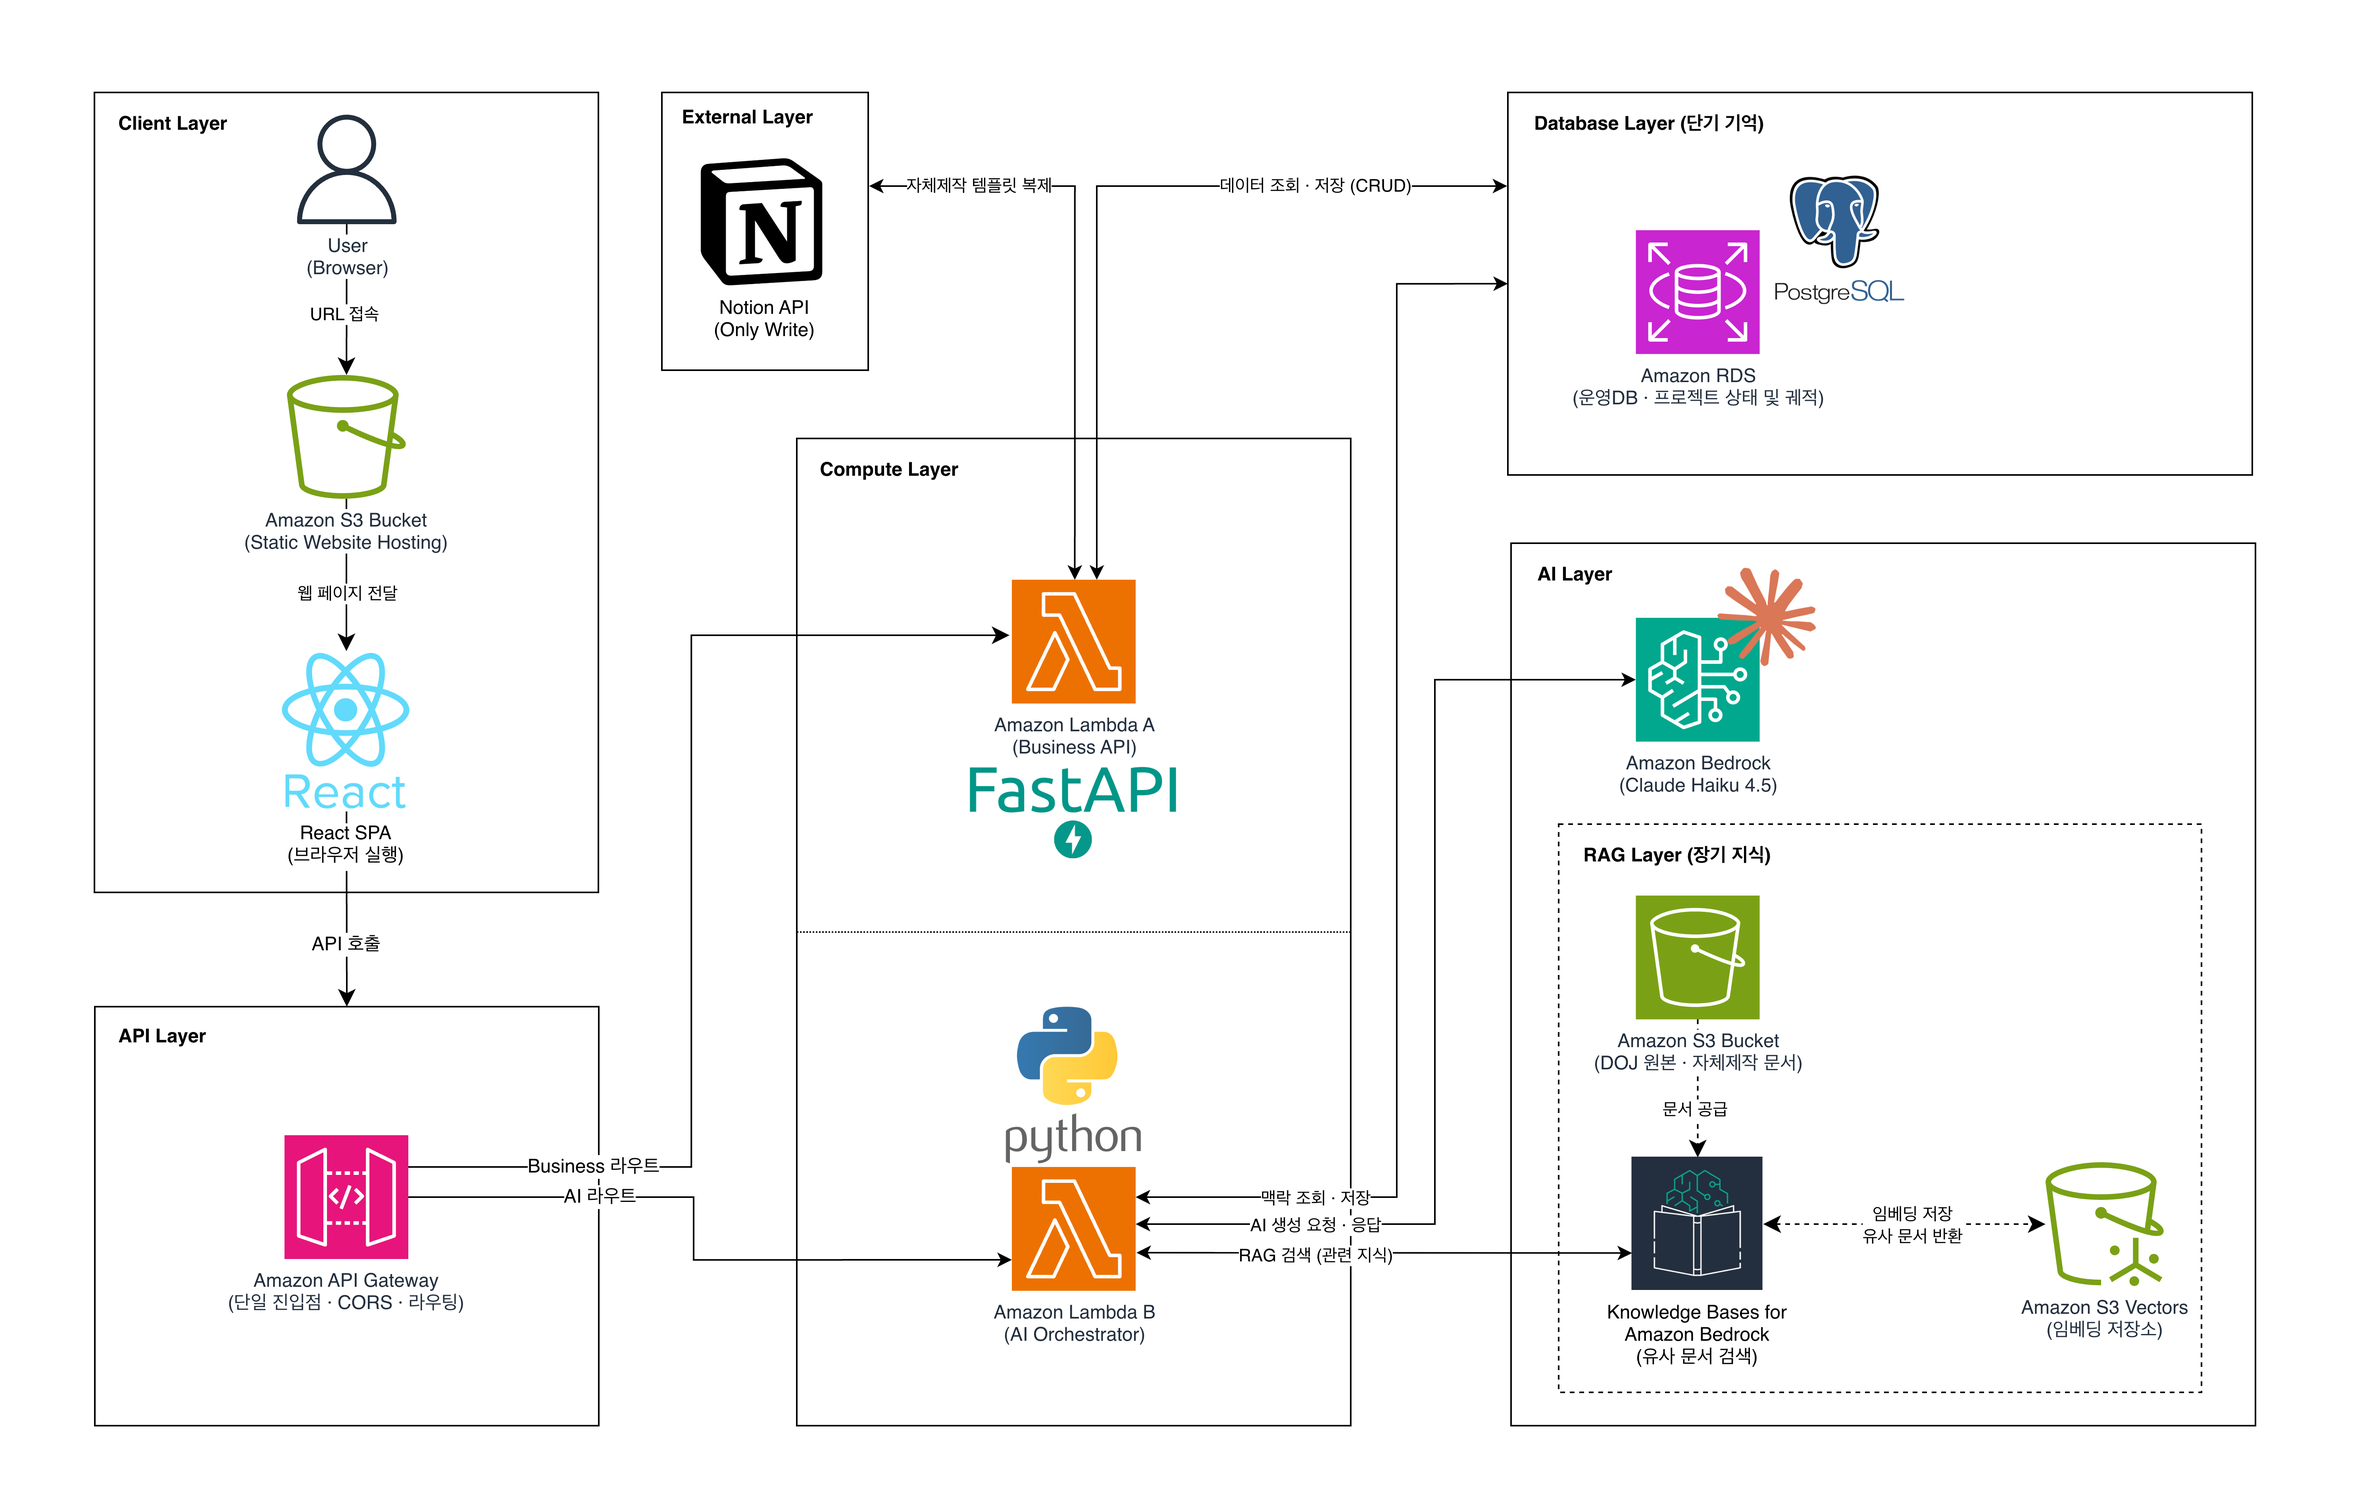
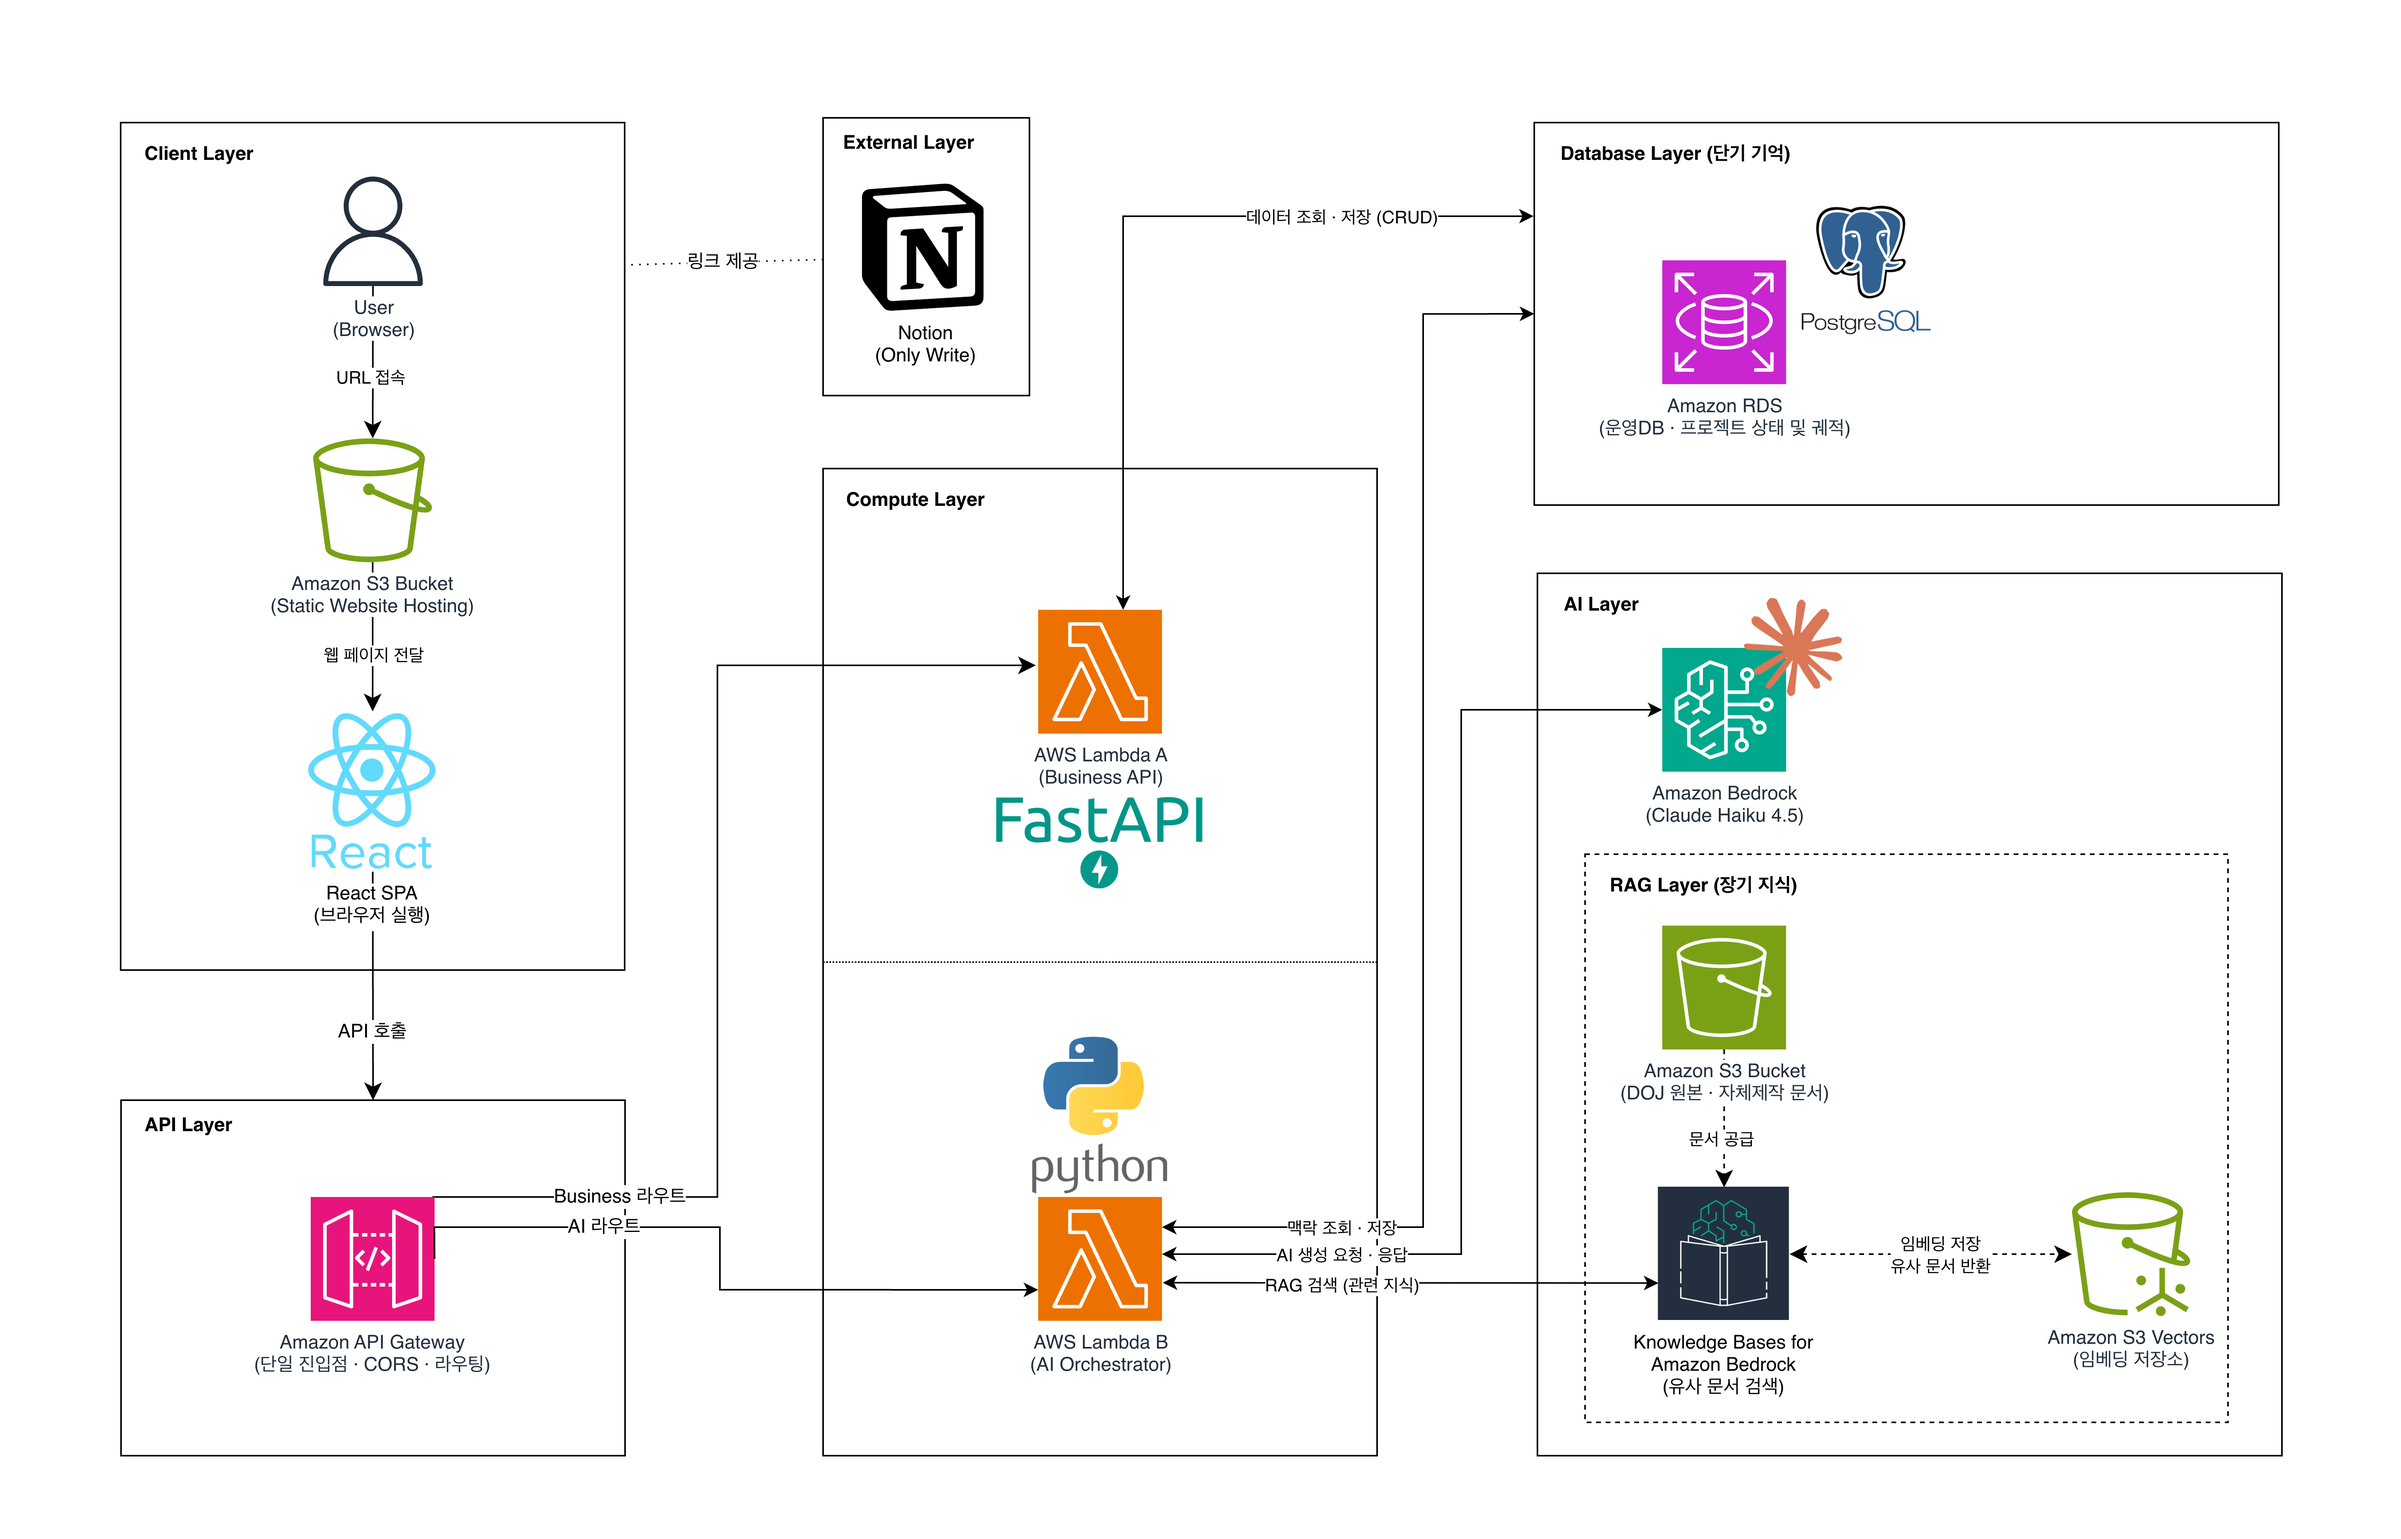
[#156][DOCS] 소개 페이지·README 전면 개편 (방법론 서사 강화 + LLM 일반화 + 논문 각주)
1. 주석 → 플레이스홀더 노출 (포스터·영상·배포 링크)
2. DOJ 10→6 재가공 서사 전면 강화 (5-2, 6-1, 6-3, 6-4)
   - '갖다 쓴 것이 아니라 재가공한 것' 메시지 전면 노출
   - DOJ가 가장 큰 틀, SWEBOK는 보완 참고, 팀 재검토·가공이 핵심
3. 6-1 SWEBOK 치중 완화 → DOJ-first 구조로 재작성
4. Claude → LLM 일반화 (6-2 전체)
5. 논문 각주 3개 추가 (LLM4SE, RLHF, 한국어 벤치마크)
6. 6섹션 제목·표현 순화 (구조 유지)
7. Notion API → Notion, External → External (링크 제공)
8. README 소개 페이지 뱃지 주석 해제
9. 양쪽 푸터 재작성 (DOJ 재구성 + SWEBOK 참고 구조 명시)
10. architecture.png 업데이트

diff --git a/README.md b/README.md
@@ -11,7 +11,7 @@
 </p>
 
 <p align="center">
-  <!-- <a href="https://kookmin-sw.github.io/2026-capstone-59/"><img src="https://img.shields.io/badge/소개_페이지-GitHub_Pages-0969da?logo=github" alt="Intro Page" /></a> -->
+  <a href="https://kookmin-sw.github.io/2026-capstone-59/"><img src="https://img.shields.io/badge/소개_페이지-GitHub_Pages-0969da?logo=github" alt="Intro Page" /></a>
   <a href="https://poco.example.com"><img src="https://img.shields.io/badge/서비스_바로가기-Poco-5C45E8" alt="Live Service" /></a>
   <a href="#-팀원"><img src="https://img.shields.io/badge/Capstone_2026-AWS_Track_59팀-FF9900?logo=amazon-aws" alt="AWS Track" /></a>
 </p>
@@ -22,10 +22,11 @@
 
 1. [한 줄 요약](#-한-줄-요약)
 2. [핵심 기능](#-핵심-기능)
-3. [기술 스택](#-기술-스택)
-4. [빠른 시작](#-빠른-시작)
-5. [레포지토리 구조](#-레포지토리-구조)
-6. [팀원](#-팀원)
+3. [시스템 아키텍처](#-시스템-아키텍처)
+4. [기술 스택](#-기술-스택)
+5. [빠른 시작](#-빠른-시작)
+6. [레포지토리 구조](#-레포지토리-구조)
+7. [팀원](#-팀원)
 
 &nbsp;
 
@@ -55,6 +56,14 @@ AI가 다음 한 걸음의 선택지를 제시하고 의사결정의 궤적을 *
 > 되돌아갈 수 있는 선택, 자산으로 남는 사고 과정.
 
 선택한 경로가 **캔버스 트리**로 남아, 이전 분기점으로 롤백하며 새로운 길을 AI가 다시 제안합니다.
+
+&nbsp;
+
+## 🐾 시스템 아키텍처
+
+<img src="./assets/architecture.png" alt="Poco System Architecture" />
+
+> RAG 파이프라인과 "단기 기억(RDS) · 장기 지식(S3 Vectors)" 분리 설계로, AI가 검증된 방법론을 실시간 참조합니다.
 
 &nbsp;
 
@@ -91,10 +100,6 @@ AI가 다음 한 걸음의 선택지를 제시하고 의사결정의 궤적을 *
 
 ![Docker](https://img.shields.io/badge/Docker-2496ED?style=flat-square&logo=docker&logoColor=white)
 ![GitHub Actions](https://img.shields.io/badge/GitHub_Actions-2088FF?style=flat-square&logo=githubactions&logoColor=white)
-
-**External**
-
-![Notion API](https://img.shields.io/badge/Notion_API-000000?style=flat-square&logo=notion&logoColor=white)
 
 &nbsp;
 
@@ -174,4 +179,4 @@ docker-compose up -d
 
 ---
 
-*<sub>본 프로젝트는 소프트웨어 공학 지식체계 <b>SWEBOK V4.0a</b> (2024, IEEE Computer Society) 및 미국 법무부(<b>DOJ</b>) <b>SDLC(소프트웨어 개발 수명 주기) Guidance Document</b>를 근거로 설계되었습니다.</sub>*
+<sub>본 프로젝트는 미국 법무부(<b>DOJ</b>) <b>SDLC Guidance Document</b>의 10단계 Phase를 재검토·선별하여 6단계로 재구성하고, <b>SWEBOK V4.0a</b> (2024, IEEE Computer Society)의 토픽 구조를 참고하여 자체 가이드를 제작했습니다.</sub>
